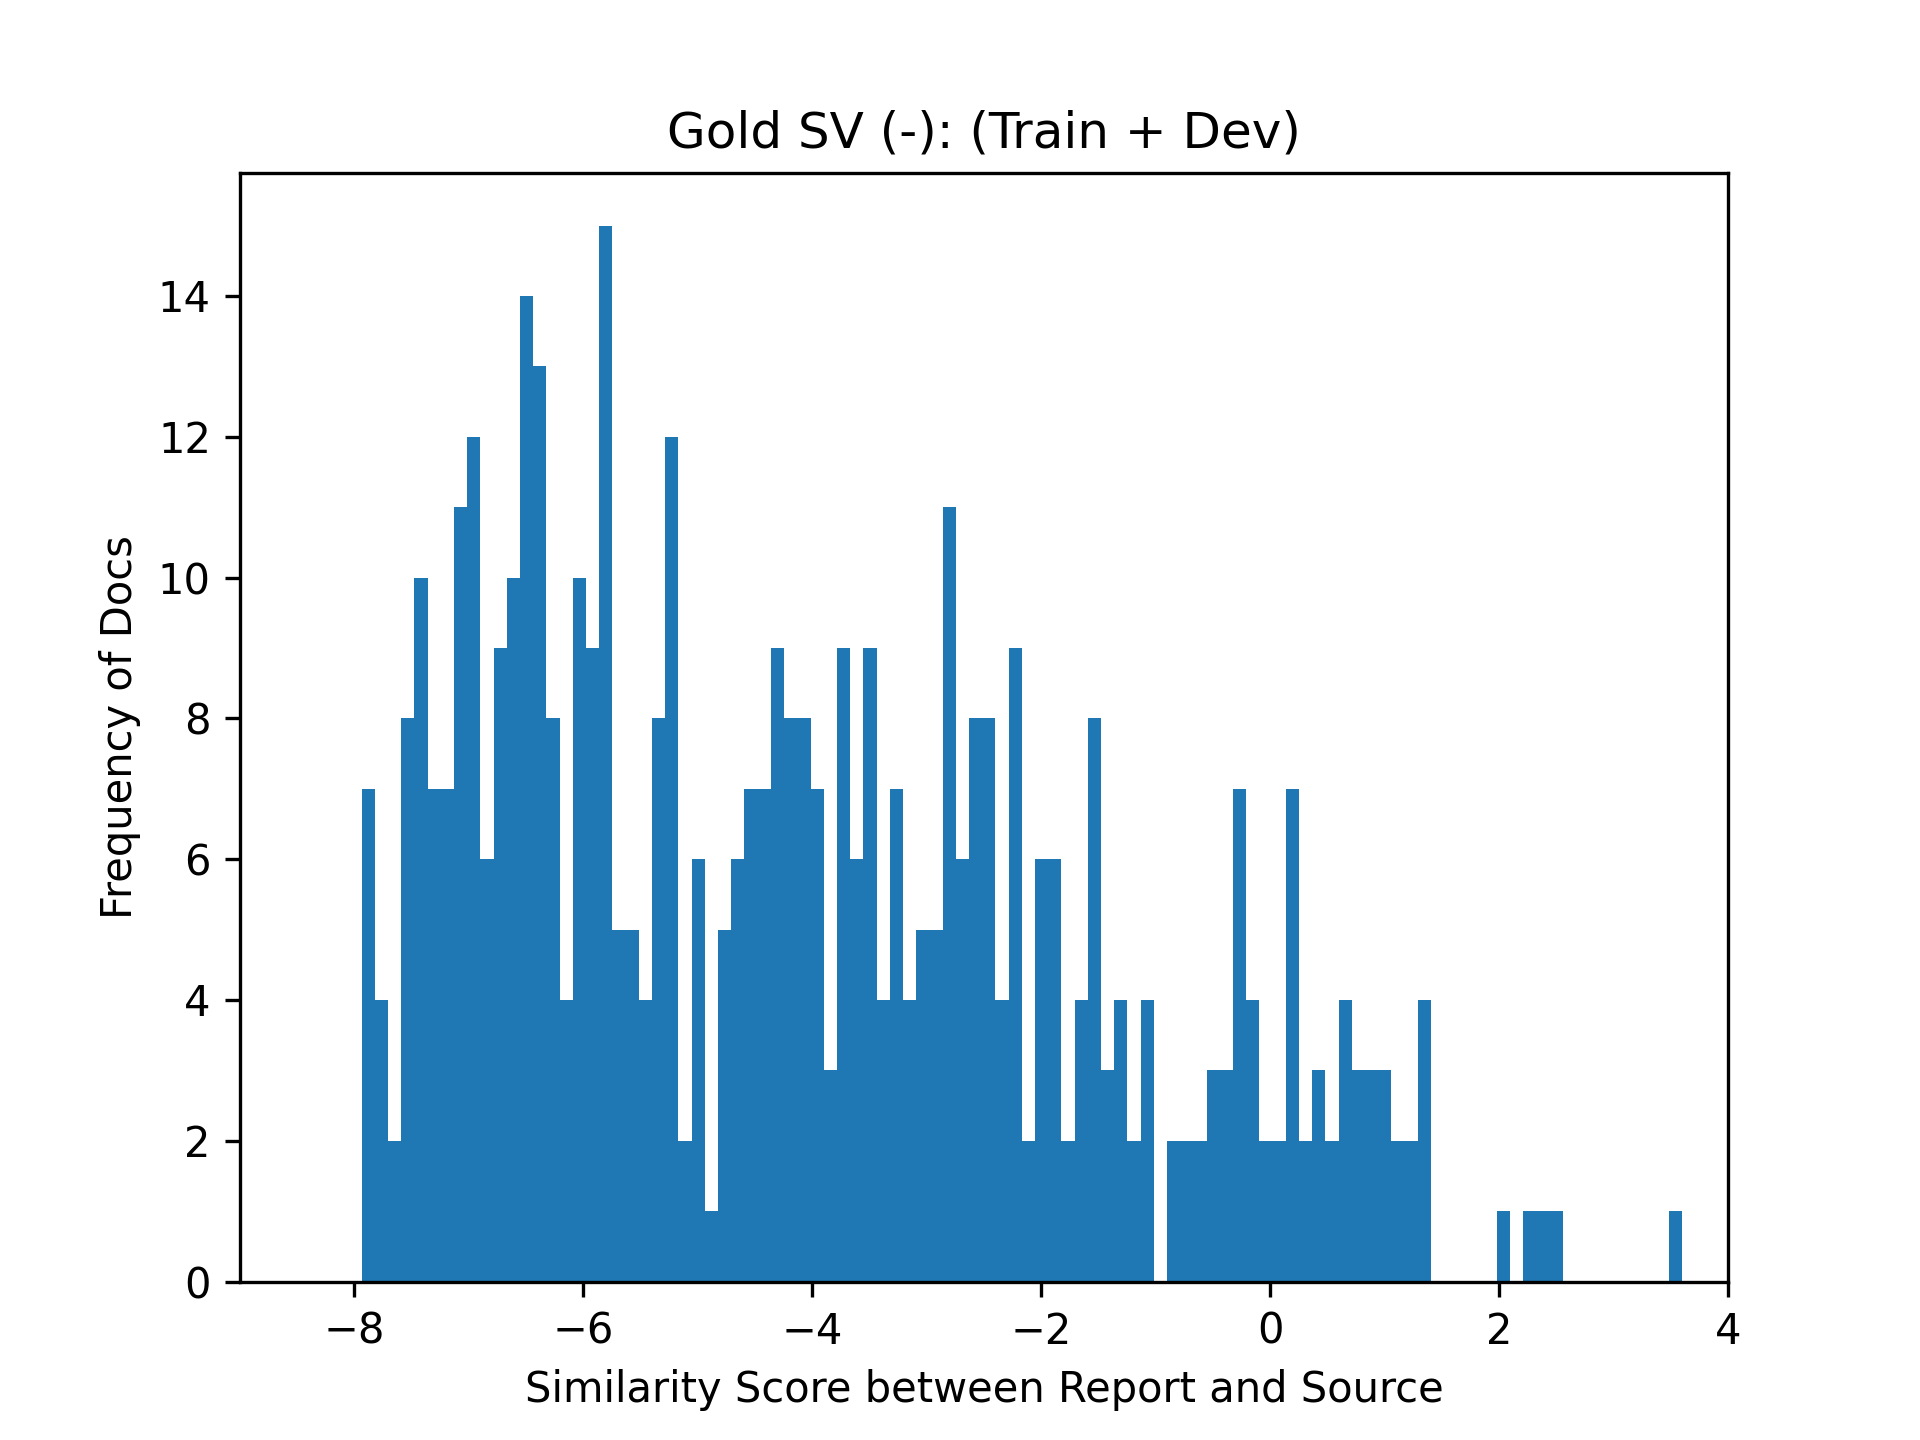
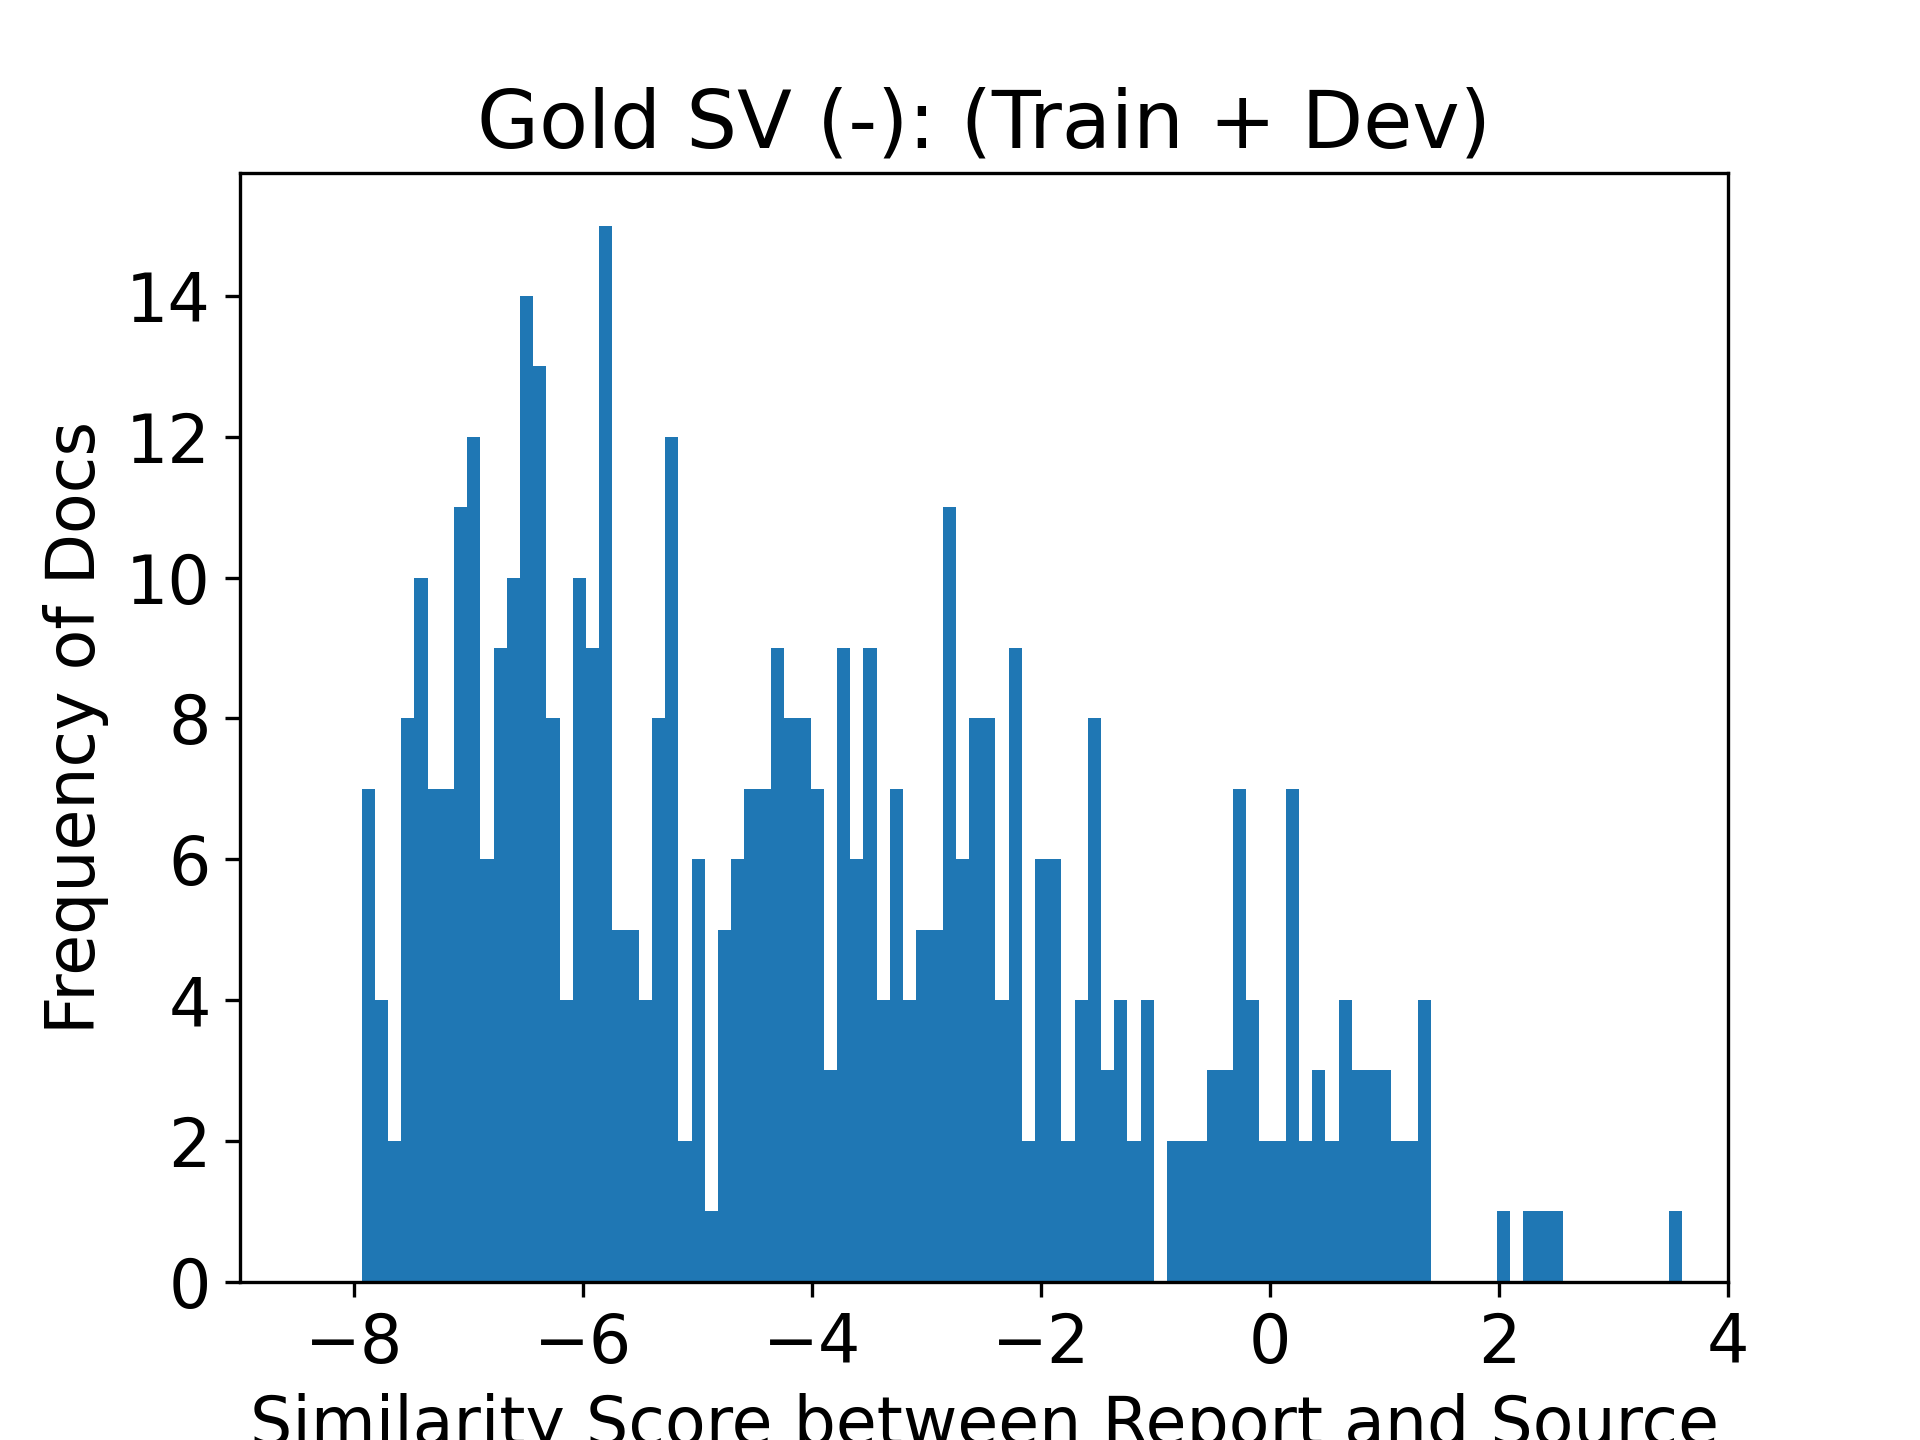
bigger font histograms

diff --git a/src/data_processing/simLM_distributions.py b/src/data_processing/simLM_distributions.py
@@ -8,6 +8,8 @@ import torch
 import argparse
 import os
 import matplotlib.pyplot as plt
+# Set global font size
+plt.rcParams['font.size'] = 16
 
 def encode(tokenizer: PreTrainedTokenizerFast,
            query: str, passage: str, title: str = '-') -> BatchEncoding:
@@ -140,31 +142,43 @@ def main():
 
     # Plot for positive similarity scores
     axs[0, 0].hist(pos_sim_scores, bins=100)
-    axs[0, 0].set_xlabel('Similarity Score between Report and Source')
-    axs[0, 0].set_ylabel('Frequency of Docs')
+    axs[0, 0].set_xlabel('Similarity Score between Report and Source',  
+                            fontsize=16)
+    axs[0, 0].set_ylabel('Frequency of Docs',  
+                            fontsize=16)
     axs[0, 0].set_xlim(-9, 4)
-    axs[0, 0].set_title('SV (+) Instances (Train + Dev)')
+    axs[0, 0].set_title('SV (+) Instances (Train + Dev)',  
+                            fontsize=20)
 
     # Plot for negative similarity scores
     axs[0, 1].hist(neg_sim_scores, bins=100)
-    axs[0, 1].set_xlabel('Similarity Score between Report and Source')
-    axs[0, 1].set_ylabel('Frequency of Docs')
+    axs[0, 1].set_xlabel('Similarity Score between Report and Source',  
+                            fontsize=16)
+    axs[0, 1].set_ylabel('Frequency of Docs',  
+                            fontsize=16)
     axs[0, 1].set_xlim(-9, 4)
-    axs[0, 1].set_title('SV (-) Instances (Train + Dev)')
+    axs[0, 1].set_title('SV (-) Instances (Train + Dev)',  
+                            fontsize=20)
 
     # Plot for gold negative similarity scores
     axs[1, 0].hist(neg_gold_sim_scores, bins=100)
-    axs[1, 0].set_xlabel('Similarity Score between Report and Source')
-    axs[1, 0].set_ylabel('Frequency of Docs')
+    axs[1, 0].set_xlabel('Similarity Score between Report and Source',  
+                            fontsize=16)
+    axs[1, 0].set_ylabel('Frequency of Docs',  
+                            fontsize=16)
     axs[1, 0].set_xlim(-9, 4)
-    axs[1, 0].set_title('Gold SV (-): (Train + Dev)')
+    axs[1, 0].set_title('Gold SV (-): (Train + Dev)',  
+                            fontsize=20)
 
     # Plot for generated negative similarity scores
     axs[1, 1].hist(neg_gen_sim_scores, bins=100)
-    axs[1, 1].set_xlabel('Similarity Score between Report and Source')
-    axs[1, 1].set_ylabel('Frequency of Docs')
+    axs[1, 1].set_xlabel('Similarity Score between Report and Source',  
+                            fontsize=16)
+    axs[1, 1].set_ylabel('Frequency of Docs',  
+                            fontsize=16)
     axs[1, 1].set_xlim(-9, 4)
-    axs[1, 1].set_title('Silver SV (-): (Train + Dev)')
+    axs[1, 1].set_title('Silver SV (-): (Train + Dev)',  
+                            fontsize=20)
 
     # Improve layout
     plt.tight_layout()
@@ -173,8 +187,6 @@ def main():
     plt.savefig('histogram_simLM_all_examples.png', format='png', dpi=300)
     plt.show()
     plt.close()
-    
+
 if __name__ == '__main__':
     main()
-
-
